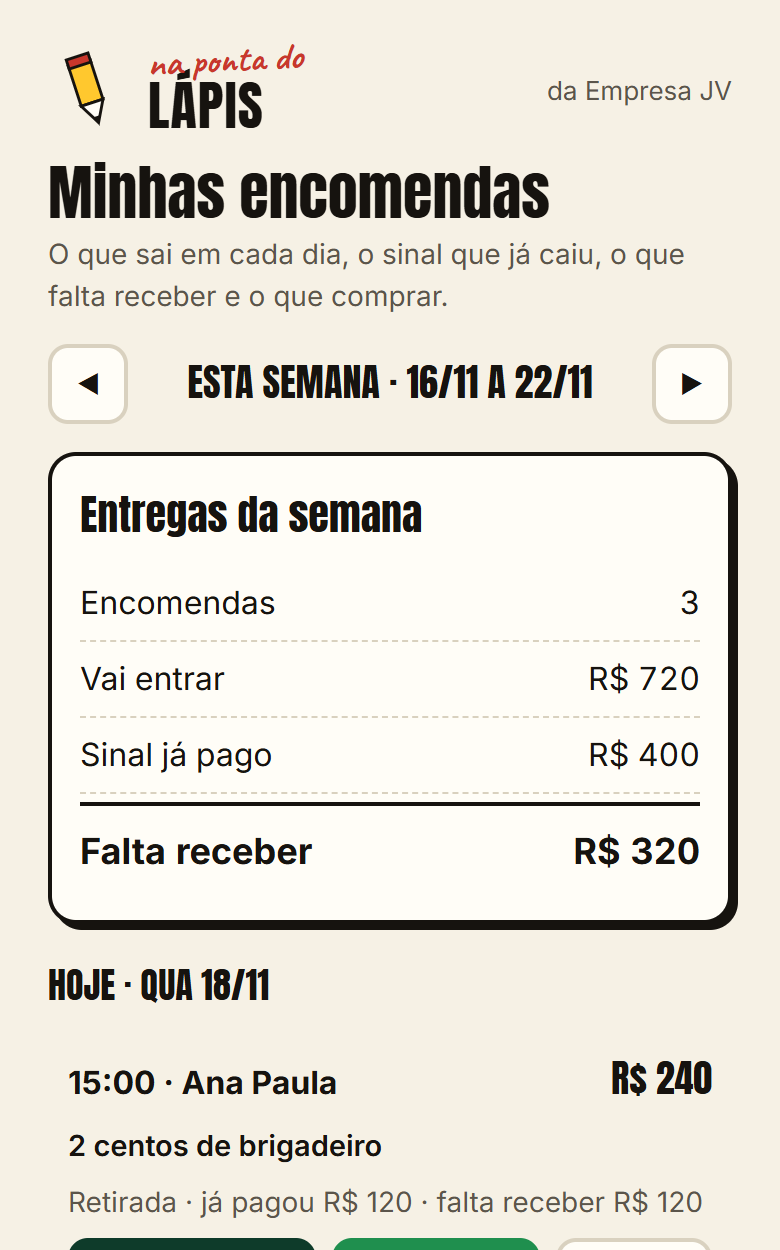
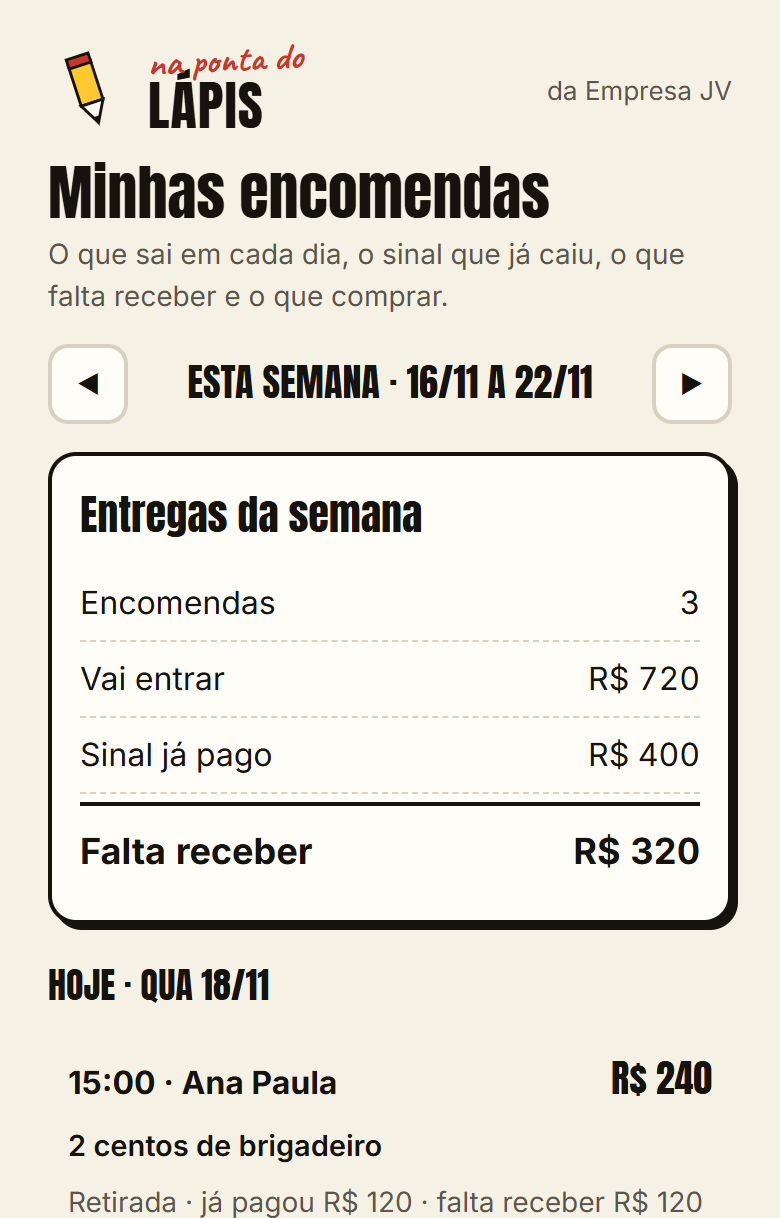
Pós-compra: título sem sobreposição, botão do upsell sem quebra, print da confeitaria sem corte

diff --git a/na-ponta-do-lapis/confeitaria/oferta/index.html b/na-ponta-do-lapis/confeitaria/oferta/index.html
@@ -26,8 +26,8 @@ header b{font-weight:800}
 .ok .wrap{padding-block:10px}
 main{display:grid;grid-template-columns:minmax(0,1fr);gap:26px;padding-block:24px 70px}
 .tag{justify-self:start;font:400 15px/1 Anton,sans-serif;letter-spacing:.06em;background:var(--tinta);color:var(--amarelo);padding:6px 10px 5px;transform:rotate(-1.5deg)}
-h1{font:400 clamp(32px,8vw,46px)/1.1 Anton,Impact,sans-serif;margin:0;text-wrap:balance}
-h1 em{font-style:normal;background:var(--amarelo);padding:0 .1em}
+h1{font:400 clamp(32px,8vw,46px)/1.24 Anton,Impact,sans-serif;margin:0;text-wrap:balance}
+h1 em{font-style:normal;background:var(--amarelo);padding:.02em .12em;-webkit-box-decoration-break:clone;box-decoration-break:clone}
 h2{font:700 21px/1.25 Inter,sans-serif;margin:0 0 10px}
 .sub{font-size:18px;margin:0;color:var(--tinta2)}
 video{width:100%;max-width:320px;aspect-ratio:9/16;justify-self:center;border:3px solid var(--tinta);border-radius:18px;box-shadow:5px 5px 0 var(--tinta);background:#efe9dc}
@@ -62,7 +62,7 @@ footer{border-top:2px solid var(--tinta);padding-block:18px 36px;font-size:14px;
 <span class="tag">SÓ PARA QUEM ACABOU DE COMPRAR</span>
 <h1>Agora que você sabe quanto cobrar, <em>não deixe encomenda escapar.</em></h1>
 <p class="sub">Destrave o Completo no mesmo app que você acabou de comprar: as encomendas da semana com sinal e quanto falta receber, quem ainda falta pagar com a cobrança pronta, a lista de compras da semana somada das suas receitas e as clientes para chamar de novo.</p>
-<img src="/img/npl-completo-conf-encomendas.png" alt="Tela de clientes do Na Ponta do Lápis Completo" style="width:100%;max-width:420px;display:block;margin:0 auto 18px;border-radius:14px;border:2px solid #1a1410">
+<img src="/img/npl-completo-conf-encomendas.png" alt="Tela do Na Ponta do Lápis Completo" style="width:100%;max-width:420px;display:block;margin:0 auto 18px;border-radius:14px;border:2px solid #1a1410">
 <section class="caixa"><h2>O que o Completo resolve</h2><ul class="lista"><li>Entregas da semana logo na primeira tela, com sinal e quanto falta</li><li>Quem falta pagar, com a mensagem de cobrança pronta</li><li>Lista de compras da semana somada das suas receitas</li><li>As mensagens prontas de confeitaria dentro do app</li></ul></section>
 <section class="caixa"><h2>Como funciona</h2><ul class="lista">
 <li>As telas novas aparecem no mesmo Na Ponta do Lápis, sem baixar nada</li>
@@ -73,11 +73,11 @@ footer{border-top:2px solid var(--tinta);padding-block:18px 36px;font-size:14px;
 <div class="valor">+ R$ 40</div>
 <p class="miudo">Pagamento único, sem mensalidade. No cartão, a cobrança vai no mesmo cartão da compra, com 1 toque. No Pix, aparece um Pix novo na tela.</p>
 <cakto-upsell-buttons id="cakto">
-  <cakto-upsell-accept bg-color="#0E3B2A" text-color="#ffffff" upsell-accept-url="https://jvorganiza.com.br/na-ponta-do-lapis/obrigado/?r=confeitaria&completo=1" offer-id="5go5u6x" app-base-url="https://app.cakto.com.br" offer-type="upsell" upsell-reject-url="https://jvorganiza.com.br/na-ponta-do-lapis/confeitaria/oferta-2/">Sim, quero o Completo por + R$ 40</cakto-upsell-accept>
+  <cakto-upsell-accept bg-color="#0E3B2A" text-color="#ffffff" upsell-accept-url="https://jvorganiza.com.br/na-ponta-do-lapis/obrigado/?r=confeitaria&completo=1" offer-id="5go5u6x" app-base-url="https://app.cakto.com.br" offer-type="upsell" upsell-reject-url="https://jvorganiza.com.br/na-ponta-do-lapis/confeitaria/oferta-2/">Sim, quero por + R$ 40</cakto-upsell-accept>
   <cakto-upsell-reject upsell-reject-url="https://jvorganiza.com.br/na-ponta-do-lapis/confeitaria/oferta-2/">Não, obrigada. Fico só com o Na Ponta do Lápis</cakto-upsell-reject>
 </cakto-upsell-buttons>
 <div class="reserva" id="reserva">
-  <a class="btn" href="https://pay.cakto.com.br/5go5u6x">Sim, quero o Completo por + R$ 40</a>
+  <a class="btn" href="https://pay.cakto.com.br/5go5u6x">Sim, quero por + R$ 40</a>
   <a class="link-nao" href="https://jvorganiza.com.br/na-ponta-do-lapis/confeitaria/oferta-2/">Não, obrigada. Fico só com o Na Ponta do Lápis</a>
 </div>
 <script src="https://caktoscripts.nyc3.cdn.digitaloceanspaces.com/upsell.js" async onerror="document.getElementById('reserva').classList.add('on');document.getElementById('cakto').style.display='none'"></script>

diff --git a/na-ponta-do-lapis/trancista/oferta/index.html b/na-ponta-do-lapis/trancista/oferta/index.html
@@ -26,8 +26,8 @@ header b{font-weight:800}
 .ok .wrap{padding-block:10px}
 main{display:grid;grid-template-columns:minmax(0,1fr);gap:26px;padding-block:24px 70px}
 .tag{justify-self:start;font:400 15px/1 Anton,sans-serif;letter-spacing:.06em;background:var(--tinta);color:var(--amarelo);padding:6px 10px 5px;transform:rotate(-1.5deg)}
-h1{font:400 clamp(32px,8vw,46px)/1.1 Anton,Impact,sans-serif;margin:0;text-wrap:balance}
-h1 em{font-style:normal;background:var(--amarelo);padding:0 .1em}
+h1{font:400 clamp(32px,8vw,46px)/1.24 Anton,Impact,sans-serif;margin:0;text-wrap:balance}
+h1 em{font-style:normal;background:var(--amarelo);padding:.02em .12em;-webkit-box-decoration-break:clone;box-decoration-break:clone}
 h2{font:700 21px/1.25 Inter,sans-serif;margin:0 0 10px}
 .sub{font-size:18px;margin:0;color:var(--tinta2)}
 video{width:100%;max-width:320px;aspect-ratio:9/16;justify-self:center;border:3px solid var(--tinta);border-radius:18px;box-shadow:5px 5px 0 var(--tinta);background:#efe9dc}
@@ -62,7 +62,7 @@ footer{border-top:2px solid var(--tinta);padding-block:18px 36px;font-size:14px;
 <span class="tag">SÓ PARA QUEM ACABOU DE COMPRAR</span>
 <h1>Agora que você sabe quanto cobrar, <em>não deixe a cliente sumir.</em></h1>
 <p class="sub">Destrave o Completo no mesmo app que você acabou de comprar: a ficha de cada cliente, a próxima manutenção calculada pelo tipo de trança, a lista de quem chamar hoje com a mensagem pronta, a agenda com o sinal e as 22 mensagens prontas de trancista.</p>
-<img src="/img/npl-completo-tran-clientes.png" alt="Tela de clientes do Na Ponta do Lápis Completo" style="width:100%;max-width:420px;display:block;margin:0 auto 18px;border-radius:14px;border:2px solid #1a1410">
+<img src="/img/npl-completo-tran-clientes.png" alt="Tela do Na Ponta do Lápis Completo" style="width:100%;max-width:420px;display:block;margin:0 auto 18px;border-radius:14px;border:2px solid #1a1410">
 <section class="caixa"><h2>O que o Completo resolve</h2><ul class="lista"><li>Quem chamar hoje, com a mensagem pronta e o WhatsApp dela a 1 toque</li><li>Próxima manutenção calculada pelo tipo de trança</li><li>Agenda da semana com sinal pago e quanto falta receber</li><li>As 22 mensagens prontas de trancista dentro do app</li></ul></section>
 <section class="caixa"><h2>Como funciona</h2><ul class="lista">
 <li>As telas novas aparecem no mesmo Na Ponta do Lápis, sem baixar nada</li>
@@ -73,11 +73,11 @@ footer{border-top:2px solid var(--tinta);padding-block:18px 36px;font-size:14px;
 <div class="valor">+ R$ 40</div>
 <p class="miudo">Pagamento único, sem mensalidade. No cartão, a cobrança vai no mesmo cartão da compra, com 1 toque. No Pix, aparece um Pix novo na tela.</p>
 <cakto-upsell-buttons id="cakto">
-  <cakto-upsell-accept bg-color="#0E3B2A" text-color="#ffffff" upsell-accept-url="https://jvorganiza.com.br/na-ponta-do-lapis/obrigado/?r=trancista&completo=1" offer-id="zh3wc2j" app-base-url="https://app.cakto.com.br" offer-type="upsell" upsell-reject-url="https://jvorganiza.com.br/na-ponta-do-lapis/trancista/oferta-2/">Sim, quero o Completo por + R$ 40</cakto-upsell-accept>
+  <cakto-upsell-accept bg-color="#0E3B2A" text-color="#ffffff" upsell-accept-url="https://jvorganiza.com.br/na-ponta-do-lapis/obrigado/?r=trancista&completo=1" offer-id="zh3wc2j" app-base-url="https://app.cakto.com.br" offer-type="upsell" upsell-reject-url="https://jvorganiza.com.br/na-ponta-do-lapis/trancista/oferta-2/">Sim, quero por + R$ 40</cakto-upsell-accept>
   <cakto-upsell-reject upsell-reject-url="https://jvorganiza.com.br/na-ponta-do-lapis/trancista/oferta-2/">Não, obrigada. Fico só com o Na Ponta do Lápis</cakto-upsell-reject>
 </cakto-upsell-buttons>
 <div class="reserva" id="reserva">
-  <a class="btn" href="https://pay.cakto.com.br/zh3wc2j">Sim, quero o Completo por + R$ 40</a>
+  <a class="btn" href="https://pay.cakto.com.br/zh3wc2j">Sim, quero por + R$ 40</a>
   <a class="link-nao" href="https://jvorganiza.com.br/na-ponta-do-lapis/trancista/oferta-2/">Não, obrigada. Fico só com o Na Ponta do Lápis</a>
 </div>
 <script src="https://caktoscripts.nyc3.cdn.digitaloceanspaces.com/upsell.js" async onerror="document.getElementById('reserva').classList.add('on');document.getElementById('cakto').style.display='none'"></script>

diff --git a/na-ponta-do-lapis/confeitaria/oferta-2/index.html b/na-ponta-do-lapis/confeitaria/oferta-2/index.html
@@ -26,8 +26,8 @@ header b{font-weight:800}
 .ok .wrap{padding-block:10px}
 main{display:grid;grid-template-columns:minmax(0,1fr);gap:26px;padding-block:24px 70px}
 .tag{justify-self:start;font:400 15px/1 Anton,sans-serif;letter-spacing:.06em;background:var(--tinta);color:var(--amarelo);padding:6px 10px 5px;transform:rotate(-1.5deg)}
-h1{font:400 clamp(32px,8vw,46px)/1.1 Anton,Impact,sans-serif;margin:0;text-wrap:balance}
-h1 em{font-style:normal;background:var(--amarelo);padding:0 .1em}
+h1{font:400 clamp(32px,8vw,46px)/1.24 Anton,Impact,sans-serif;margin:0;text-wrap:balance}
+h1 em{font-style:normal;background:var(--amarelo);padding:.02em .12em;-webkit-box-decoration-break:clone;box-decoration-break:clone}
 h2{font:700 21px/1.25 Inter,sans-serif;margin:0 0 10px}
 .sub{font-size:18px;margin:0;color:var(--tinta2)}
 video{width:100%;max-width:320px;aspect-ratio:9/16;justify-self:center;border:3px solid var(--tinta);border-radius:18px;box-shadow:5px 5px 0 var(--tinta);background:#efe9dc}

diff --git a/na-ponta-do-lapis/obrigado/index.html b/na-ponta-do-lapis/obrigado/index.html
@@ -26,8 +26,8 @@ header b{font-weight:800}
 .ok .wrap{padding-block:10px}
 main{display:grid;grid-template-columns:minmax(0,1fr);gap:26px;padding-block:24px 70px}
 .tag{justify-self:start;font:400 15px/1 Anton,sans-serif;letter-spacing:.06em;background:var(--tinta);color:var(--amarelo);padding:6px 10px 5px;transform:rotate(-1.5deg)}
-h1{font:400 clamp(32px,8vw,46px)/1.1 Anton,Impact,sans-serif;margin:0;text-wrap:balance}
-h1 em{font-style:normal;background:var(--amarelo);padding:0 .1em}
+h1{font:400 clamp(32px,8vw,46px)/1.24 Anton,Impact,sans-serif;margin:0;text-wrap:balance}
+h1 em{font-style:normal;background:var(--amarelo);padding:.02em .12em;-webkit-box-decoration-break:clone;box-decoration-break:clone}
 h2{font:700 21px/1.25 Inter,sans-serif;margin:0 0 10px}
 .sub{font-size:18px;margin:0;color:var(--tinta2)}
 video{width:100%;max-width:320px;aspect-ratio:9/16;justify-self:center;border:3px solid var(--tinta);border-radius:18px;box-shadow:5px 5px 0 var(--tinta);background:#efe9dc}

diff --git a/na-ponta-do-lapis/trancista/oferta-2/index.html b/na-ponta-do-lapis/trancista/oferta-2/index.html
@@ -26,8 +26,8 @@ header b{font-weight:800}
 .ok .wrap{padding-block:10px}
 main{display:grid;grid-template-columns:minmax(0,1fr);gap:26px;padding-block:24px 70px}
 .tag{justify-self:start;font:400 15px/1 Anton,sans-serif;letter-spacing:.06em;background:var(--tinta);color:var(--amarelo);padding:6px 10px 5px;transform:rotate(-1.5deg)}
-h1{font:400 clamp(32px,8vw,46px)/1.1 Anton,Impact,sans-serif;margin:0;text-wrap:balance}
-h1 em{font-style:normal;background:var(--amarelo);padding:0 .1em}
+h1{font:400 clamp(32px,8vw,46px)/1.24 Anton,Impact,sans-serif;margin:0;text-wrap:balance}
+h1 em{font-style:normal;background:var(--amarelo);padding:.02em .12em;-webkit-box-decoration-break:clone;box-decoration-break:clone}
 h2{font:700 21px/1.25 Inter,sans-serif;margin:0 0 10px}
 .sub{font-size:18px;margin:0;color:var(--tinta2)}
 video{width:100%;max-width:320px;aspect-ratio:9/16;justify-self:center;border:3px solid var(--tinta);border-radius:18px;box-shadow:5px 5px 0 var(--tinta);background:#efe9dc}
